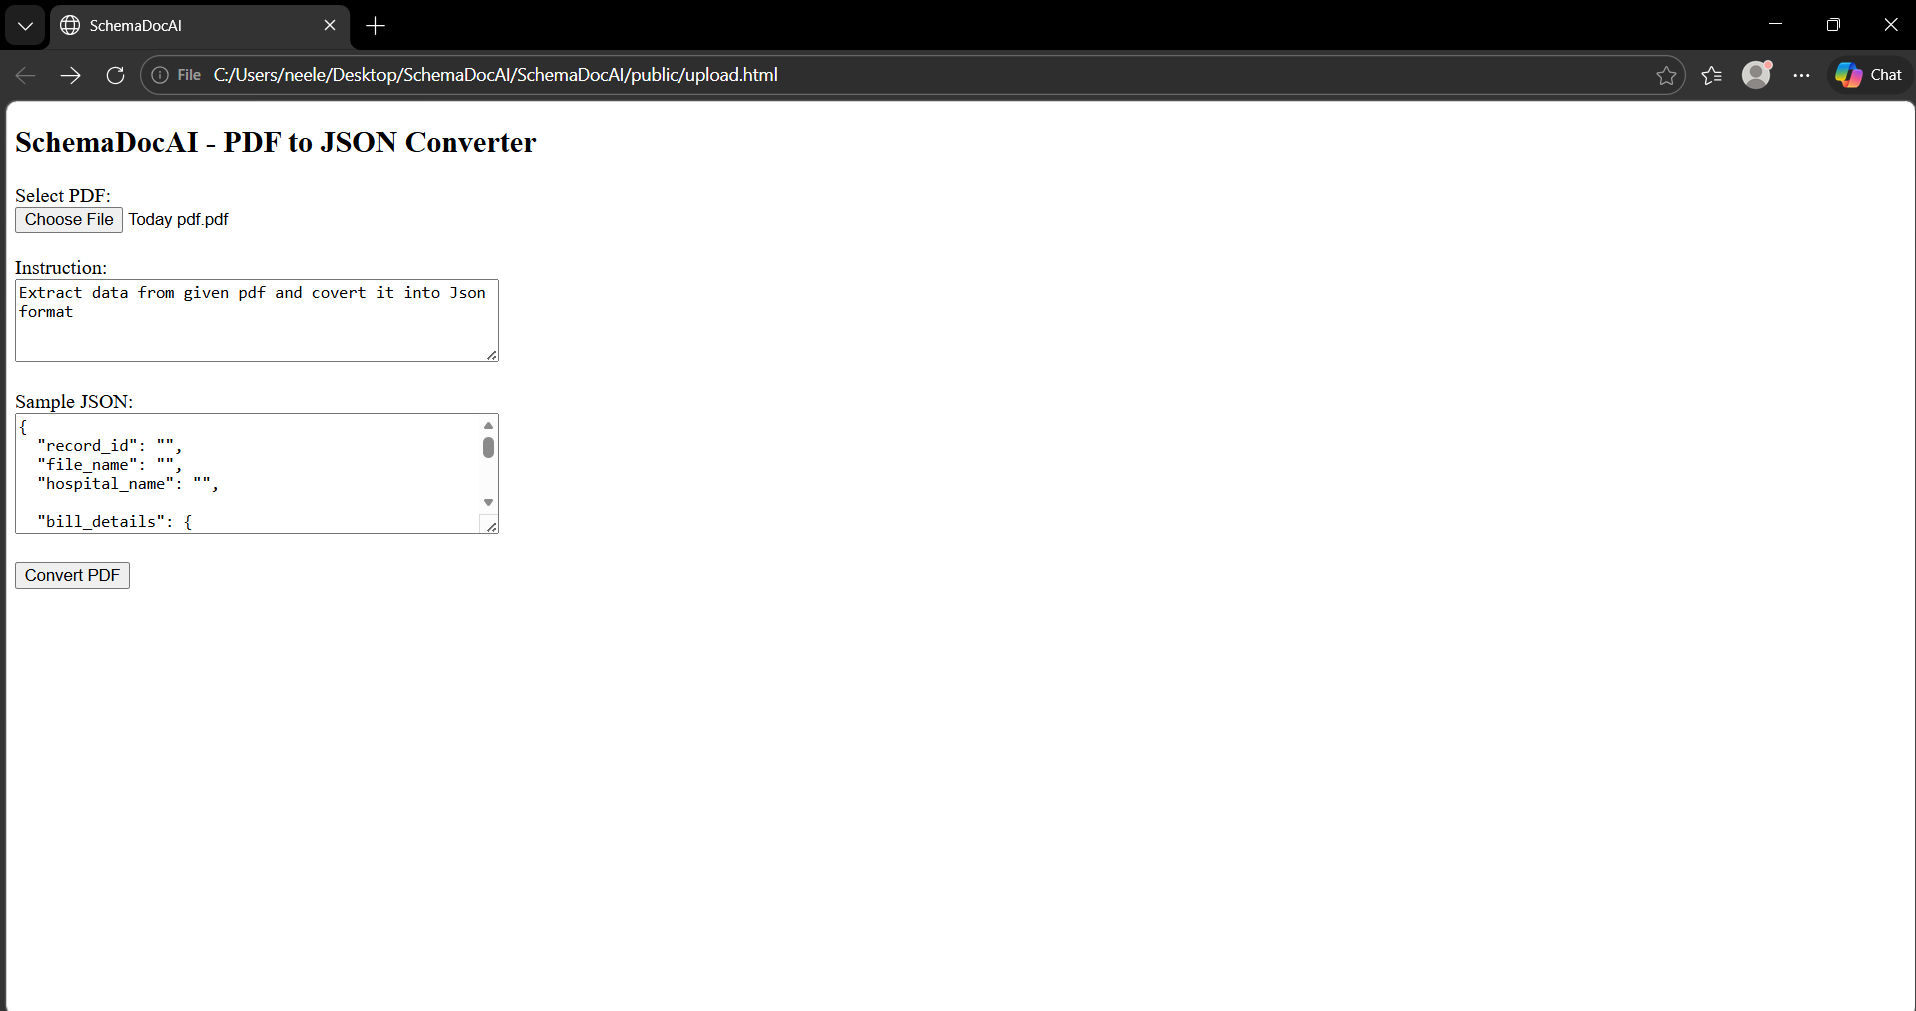
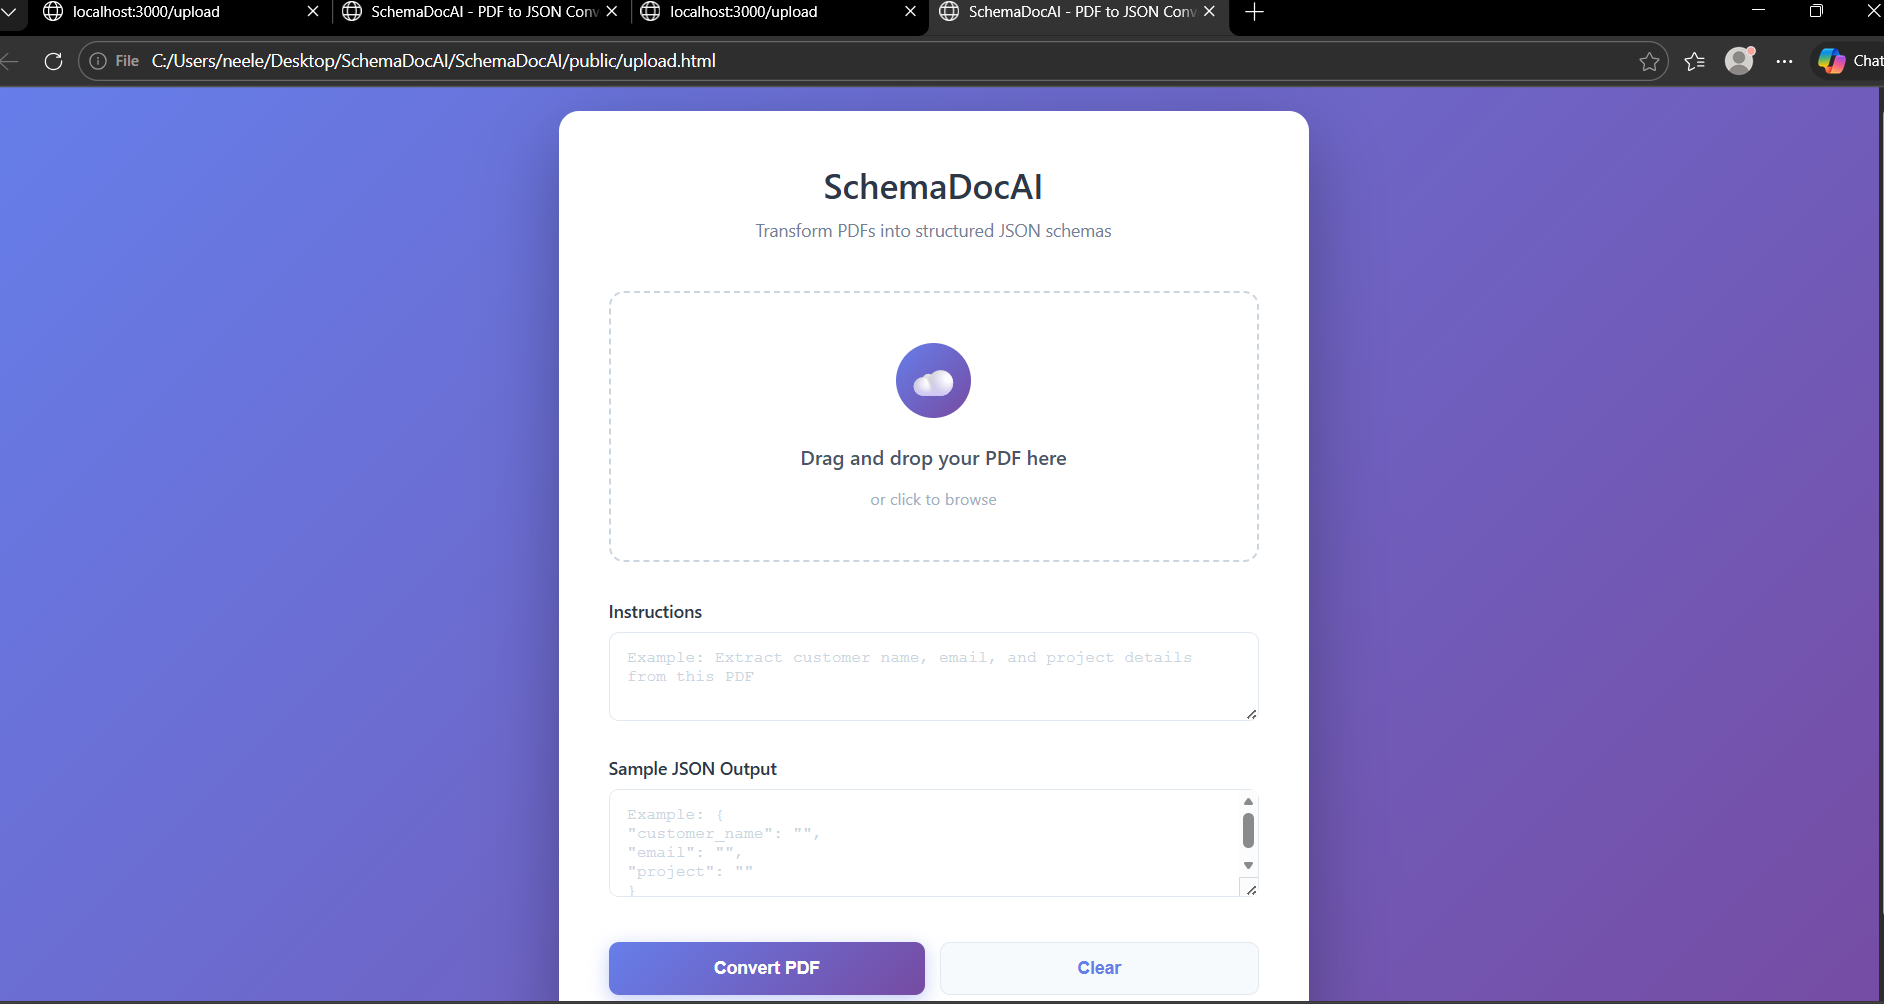
Route change

diff --git a/public/upload.html b/public/upload.html
@@ -1,90 +1,305 @@
 <!DOCTYPE html>
-<html>
+<html lang="en">
 
 <head>
+    <meta charset="UTF-8">
+    <meta name="viewport" content="width=device-width, initial-scale=1.0">
+    <title>SchemaDocAI - PDF to JSON Converter</title>
+    <style>
+        * {
+            margin: 0;
+            padding: 0;
+            box-sizing: border-box;
+        }
 
-<title>SchemaDocAI</title>
+        body {
+            font-family: -apple-system, BlinkMacSystemFont, 'Segoe UI', 'Roboto', 'Oxygen', 'Ubuntu', 'Cantarell', sans-serif;
+            background: linear-gradient(135deg, #667eea 0%, #764ba2 100%);
+            min-height: 100vh;
+            display: flex;
+            justify-content: center;
+            align-items: center;
+            padding: 20px;
+        }
 
+        .container {
+            width: 100%;
+            max-width: 600px;
+        }
+
+        .card {
+            background: white;
+            border-radius: 16px;
+            box-shadow: 0 20px 60px rgba(0, 0, 0, 0.3);
+            padding: 40px;
+            text-align: center;
+        }
+
+        .header {
+            margin-bottom: 40px;
+        }
+
+        .header h1 {
+            font-size: 28px;
+            color: #2d3748;
+            margin-bottom: 8px;
+            font-weight: 600;
+        }
+
+        .header p {
+            color: #718096;
+            font-size: 14px;
+        }
+
+        .upload-area {
+            border: 2px dashed #cbd5e0;
+            border-radius: 12px;
+            padding: 40px 20px;
+            margin-bottom: 30px;
+            transition: all 0.3s ease;
+            cursor: pointer;
+        }
+
+        .upload-area:hover {
+            border-color: #667eea;
+            background-color: #f7fafc;
+        }
+
+        .upload-area.dragover {
+            border-color: #667eea;
+            background-color: #edf2f7;
+            transform: scale(1.02);
+        }
+
+        .upload-icon {
+            width: 60px;
+            height: 60px;
+            margin: 0 auto 20px;
+            background: linear-gradient(135deg, #667eea 0%, #764ba2 100%);
+            border-radius: 50%;
+            display: flex;
+            align-items: center;
+            justify-content: center;
+            font-size: 32px;
+        }
+
+        .upload-area p {
+            color: #4a5568;
+            font-size: 16px;
+            margin-bottom: 10px;
+            font-weight: 500;
+        }
+
+        .upload-area small {
+            color: #a0aec0;
+            font-size: 13px;
+        }
+
+        .form-group {
+            margin-bottom: 24px;
+            text-align: left;
+        }
+
+        label {
+            display: block;
+            color: #2d3748;
+            font-size: 14px;
+            font-weight: 600;
+            margin-bottom: 8px;
+        }
+
+        textarea {
+            width: 100%;
+            padding: 12px 14px;
+            border: 1px solid #e2e8f0;
+            border-radius: 8px;
+            font-family: 'Courier New', monospace;
+            font-size: 13px;
+            color: #2d3748;
+            resize: vertical;
+            transition: border-color 0.3s ease;
+        }
+
+        textarea:focus {
+            outline: none;
+            border-color: #667eea;
+            box-shadow: 0 0 0 3px rgba(102, 126, 234, 0.1);
+        }
+
+        textarea::placeholder {
+            color: #cbd5e0;
+        }
+
+        .button-group {
+            display: flex;
+            gap: 12px;
+            margin-top: 32px;
+        }
+
+        button {
+            flex: 1;
+            padding: 12px 24px;
+            border: none;
+            border-radius: 8px;
+            font-size: 14px;
+            font-weight: 600;
+            cursor: pointer;
+            transition: all 0.3s ease;
+        }
+
+        .btn-submit {
+            background: linear-gradient(135deg, #667eea 0%, #764ba2 100%);
+            color: white;
+            box-shadow: 0 4px 15px rgba(102, 126, 234, 0.4);
+        }
+
+        .btn-submit:hover {
+            transform: translateY(-2px);
+            box-shadow: 0 6px 20px rgba(102, 126, 234, 0.6);
+        }
+
+        .btn-submit:active {
+            transform: translateY(0);
+        }
+
+        .btn-reset {
+            background: #f7fafc;
+            color: #667eea;
+            border: 1px solid #e2e8f0;
+        }
+
+        .btn-reset:hover {
+            background: #edf2f7;
+            border-color: #cbd5e0;
+        }
+
+        input[type="file"] {
+            display: none;
+        }
+
+        .file-input-hidden {
+            position: absolute;
+            opacity: 0;
+            width: 0;
+            height: 0;
+        }
+
+        @media (max-width: 480px) {
+            .card {
+                padding: 30px 20px;
+            }
+
+            .header h1 {
+                font-size: 24px;
+            }
+
+            .upload-area {
+                padding: 30px 15px;
+            }
+
+            .button-group {
+                flex-direction: column;
+            }
+        }
+    </style>
 </head>
 
 <body>
+    <div class="container">
+        <div class="card">
+            <div class="header">
+                <h1>SchemaDocAI</h1>
+                <p>Transform PDFs into structured JSON schemas</p>
+            </div>
 
+            <form id="uploadForm" action="http://localhost:3000/upload" method="POST" enctype="multipart/form-data">
+                <!-- Drag and Drop Upload Area -->
+                <div class="upload-area" id="dropZone">
+                    <div class="upload-icon">☁</div>
+                    <p>Drag and drop your PDF here</p>
+                    <small>or click to browse</small>
+                    <input type="file" id="fileInput" name="pdf" accept=".pdf" required>
+                </div>
 
-<h2>SchemaDocAI - PDF to JSON Converter</h2>
+                <!-- Instruction -->
+                <div class="form-group">
+                    <label for="instruction">Instructions</label>
+                    <textarea
+                        id="instruction"
+                        name="instruction"
+                        rows="3"
+                        placeholder="Example: Extract customer name, email, and project details from this PDF"
+                    ></textarea>
+                </div>
 
+                <!-- Sample JSON -->
+                <div class="form-group">
+                    <label for="sampleJson">Sample JSON Output</label>
+                    <textarea
+                        id="sampleJson"
+                        name="sampleJson"
+                        rows="4"
+                        placeholder='Example: {&#10;"customer_name": "",&#10;"email": "",&#10;"project": ""&#10;}'
+                    ></textarea>
+                </div>
 
-<form action="http://localhost:3000/upload" method="POST" enctype="multipart/form-data">
+                <!-- Buttons -->
+                <div class="button-group">
+                    <button type="submit" class="btn-submit">Convert PDF</button>
+                    <button type="reset" class="btn-reset">Clear</button>
+                </div>
+            </form>
+        </div>
+    </div>
 
+    <script>
+        const dropZone = document.getElementById('dropZone');
+        const fileInput = document.getElementById('fileInput');
+        const uploadForm = document.getElementById('uploadForm');
 
-<!-- PDF upload -->
+        // Click to upload
+        dropZone.addEventListener('click', () => fileInput.click());
 
-<label>Select PDF:</label>
+        // Drag and drop events
+        dropZone.addEventListener('dragover', (e) => {
+            e.preventDefault();
+            dropZone.classList.add('dragover');
+        });
 
-<br>
+        dropZone.addEventListener('dragleave', () => {
+            dropZone.classList.remove('dragover');
+        });
 
-<input type="file" name="pdf" required>
+        dropZone.addEventListener('drop', (e) => {
+            e.preventDefault();
+            dropZone.classList.remove('dragover');
+            
+            const files = e.dataTransfer.files;
+            if (files.length > 0) {
+                // Use DataTransfer to properly set files
+                const dataTransfer = new DataTransfer();
+                dataTransfer.items.add(files[0]);
+                fileInput.files = dataTransfer.files;
+            }
+        });
 
-<br><br>
+        // File input change
+        fileInput.addEventListener('change', (e) => {
+            if (e.target.files.length > 0) {
+                const fileName = e.target.files[0].name;
+                console.log('File selected:', fileName);
+            }
+        });
 
+        // Prevent default drag behavior on the entire page
+        document.addEventListener('dragover', (e) => {
+            e.preventDefault();
+        });
 
-
-<!-- instruction -->
-
-<label>Instruction:</label>
-
-<br>
-
-<textarea
-
-name="instruction"
-
-rows="4"
-
-cols="50"
-
-placeholder="Example: Extract name and project"
-
-></textarea>
-
-
-<br><br>
-
-
-
-<!-- sample json -->
-
-<label>Sample JSON:</label>
-
-<br>
-
-<textarea
-
-name="sampleJson"
-
-rows="6"
-
-cols="50"
-
-placeholder='Example: {"name":"","project":""}'
-
-></textarea>
-
-
-<br><br>
-
-
-
-<button type="submit">
-
-Convert PDF
-
-</button>
-
-
-
-</form>
-
-
+        document.addEventListener('drop', (e) => {
+            e.preventDefault();
+        });
+    </script>
 </body>
 
 </html>
